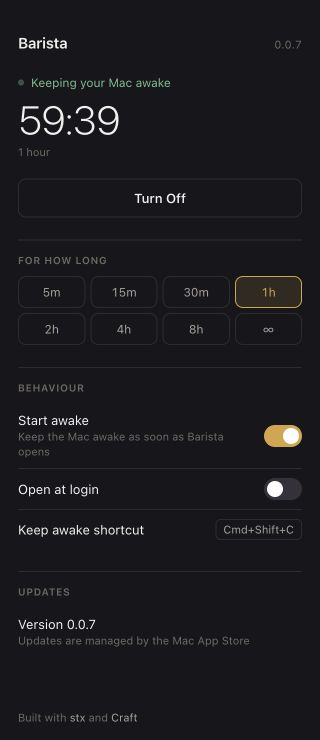
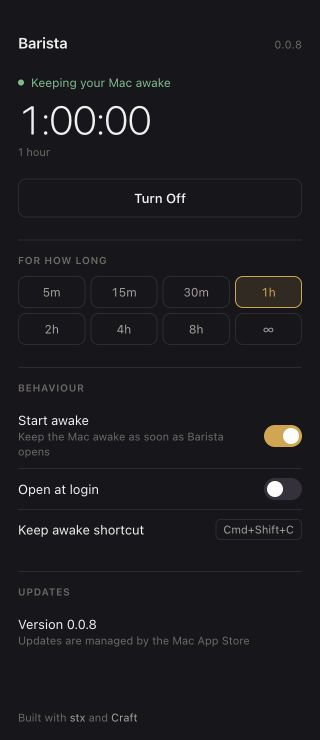
docs: publish verified 0.0.8 captures and updater results

Changed region(s): [[0.0625, 0.0932, 0.4688, 0.1865], [0.2812, 0.8392, 0.3125, 0.8703]]

diff --git a/docs/updates.md b/docs/updates.md
@@ -40,10 +40,16 @@ preserved login settings, Accessibility authorization and indefinite awake.
 Verification exposed two failure cases: a full disk safely prevented replacement,
 and a slow first document render caused WebKit to time out after restart. A
 normal relaunch restored the 0.0.7 UI; that relaunch is not counted as a successful
-first-load check. Startup readiness is being corrected at the stx source, and
-the next Barista release will also keep update HTTP requests independent of
-background downloads. The running 0.0.7 app passed native timer, hide/reveal,
+first-load check. Version 0.0.8 includes the stx startup-readiness correction and keeps update
+HTTP requests independent of background downloads. The running 0.0.7 app passed native timer, hide/reveal,
 shortcut ownership and current-version checks after relaunch.
 
 Release CI separately checks the packaged app and its read-only DMG before
 publication. See [Releasing](./releasing.md).
+
+The actual installed 0.0.7 app downloaded and installed 0.0.8 through its native
+update controls. Its new host and WebKit runtime became ready on the first
+restart, without a manual relaunch. Signing, notarization, saved login/startup
+preferences, Accessibility, shortcut ownership, real power assertions, timers
+and hide/reveal were verified. A check in the installed 0.0.8 app returned
+background progress in 4 ms and then settled to up to date.

diff --git a/docs/releasing.md b/docs/releasing.md
@@ -108,12 +108,13 @@ PKG, runs native tests in an isolated sandboxed development copy, then validates
 and uploads through Apple’s tooling. The original distribution package remains
 Store-signed. The PKG is retained as a CI artifact, not offered as a direct
 download. The Store listing has metadata, a published privacy disclosure and
-screenshots. Version 0.0.7 (build 1.1), using published Craft 0.0.340, passed
+screenshots. Version 0.0.8 (build 2.1), using published Craft 0.0.340, passed
 the local and CI sandbox checks and was accepted and processed by App Store
 Connect. The build is selected on the listing; export compliance documentation
 is still required before review submission. Upload success does not mean Apple
 has approved a release.
 
-The 0.0.8 candidate uses published stx 0.2.693 to prepare its first document
+The 0.0.8 release uses published stx 0.2.693 to prepare its first document
 before opening WebKit. Both local editions pass their native checks with the
-published Pantry Craft 0.0.340 runtime; its Store upload is pending.
+published Pantry Craft 0.0.340 runtime. The GitHub release is published and the
+Store upload was accepted and processed. Export compliance remains pending.
